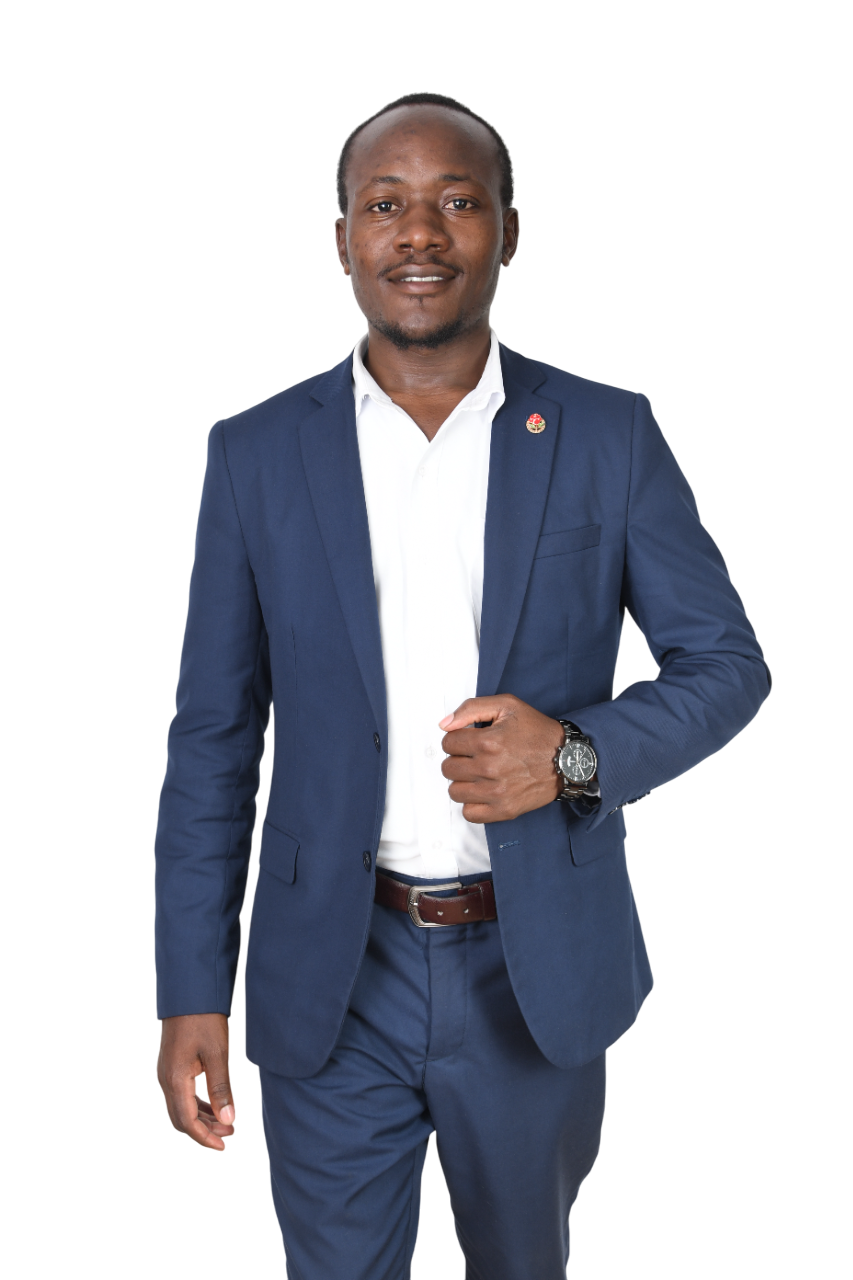
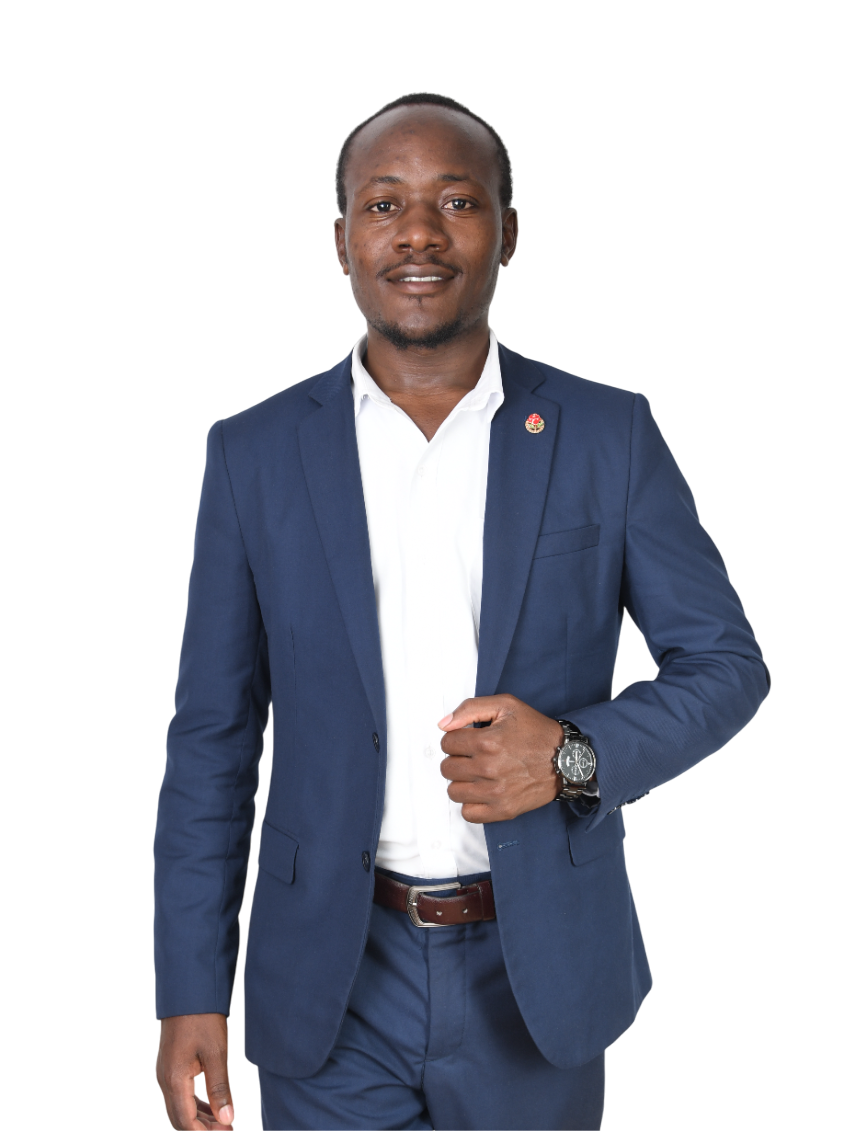
phone view light mode hero section picture edited

Changed region(s): [[0.1831, 0.0619, 0.9155, 1.0], [0.1526, 0.4332, 0.3662, 1.0], [0.6103, 0.4332, 0.6408, 0.4951]]

diff --git a/FORNTEND/pages/index.js b/FORNTEND/pages/index.js
@@ -132,7 +132,7 @@ export default function Home() {
             <div className='container'>
                 <div className='services_titles'>
                     <h2>My Vision for Our Ward.</h2>
-                    <p>By 2027, we will empower the youth, uplift women, improve infrastructure, and ensure better
+                    <p>By 2032, we will empower the youth, uplift women, improve infrastructure, and ensure better
                         access to healthcare, education, and job opportunities for all in our ward.</p>
                 </div>
                 <div className='services_menu'>

diff --git a/FORNTEND/styles/globals.css b/FORNTEND/styles/globals.css
@@ -4776,7 +4776,7 @@ header.sticky {
 
     .hero_img_box img {
         transform: none;
-        border: 2px solid var(--main-site-color);
+        /*border: 2px solid var(--main-site-color);*/
     }
 
     .projects {
